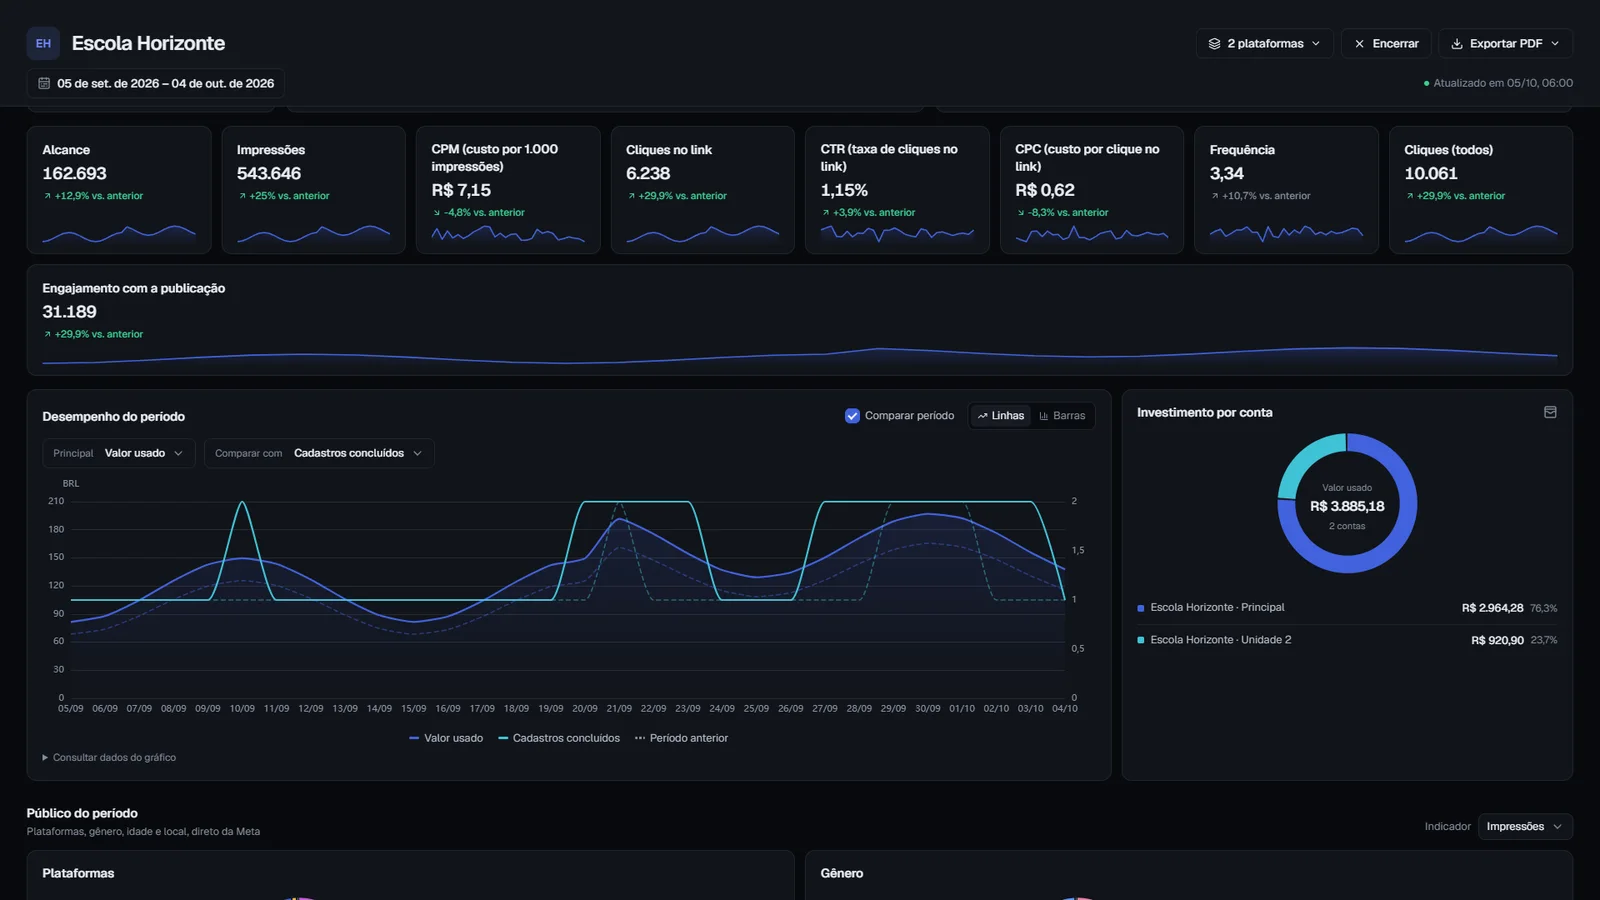
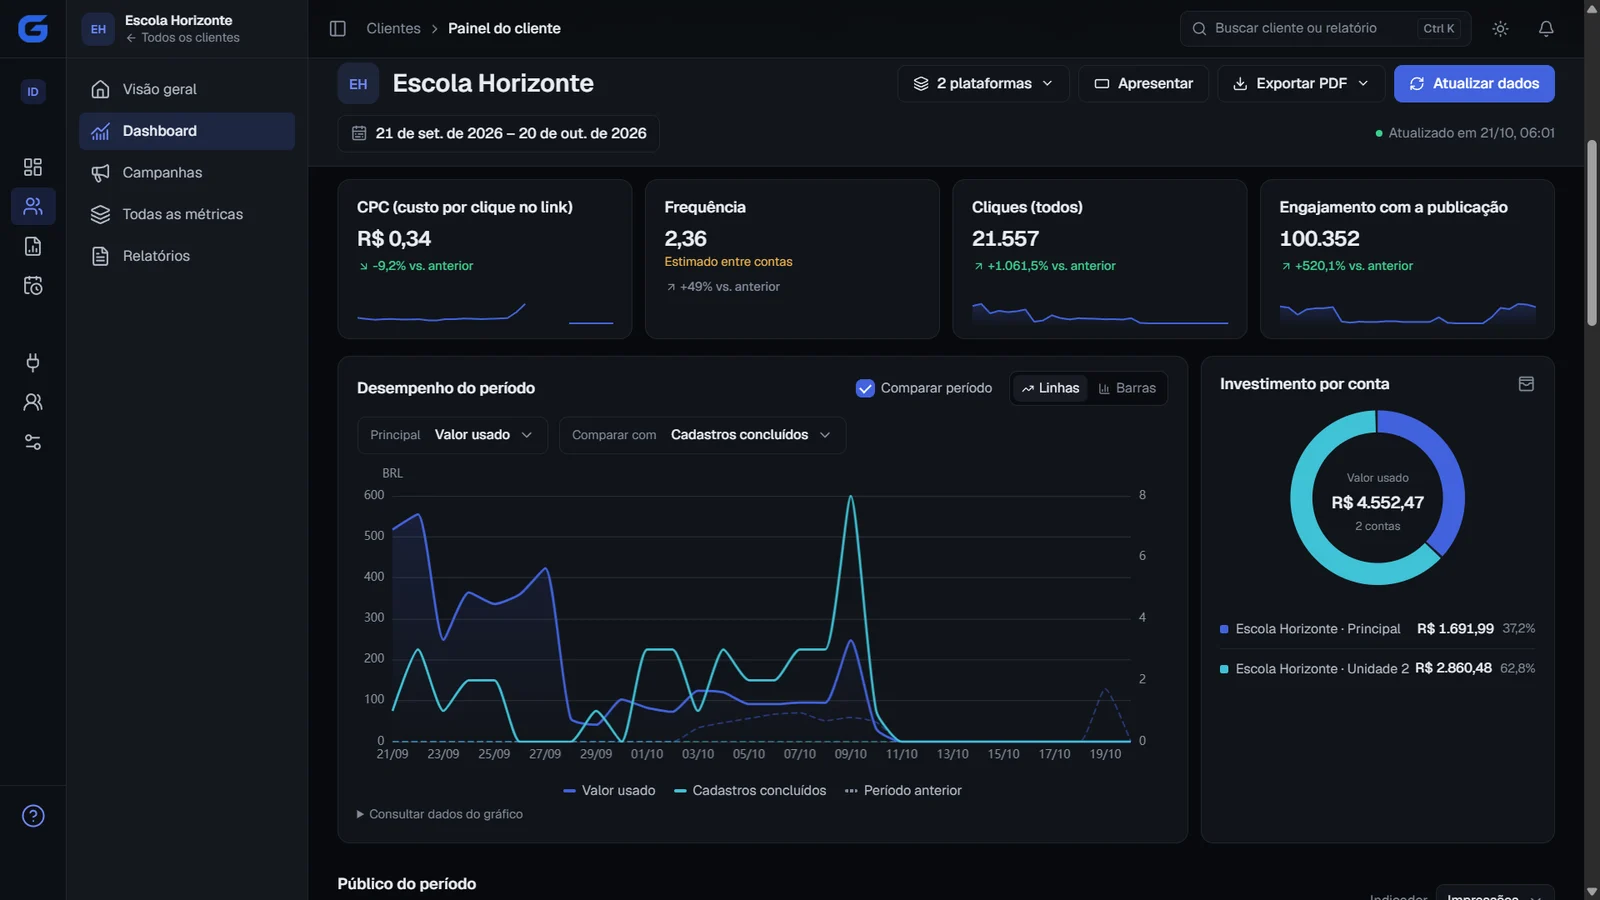
feat(marketing): hero desktop uses the full dashboard screen, client name replaced

diff --git a/src/modules/marketing/sales-media.tsx b/src/modules/marketing/sales-media.tsx
@@ -17,7 +17,7 @@ export function DeviceShowcase() {
   return <div className={styles.deviceStage} aria-label="Groow Ads em computador, tablet e celular">
     <div className={styles.deviceHalo} aria-hidden="true" />
     <div className={styles.computer}>
-      <div className={styles.computerScreen}><Image src="/product/hero-desktop.webp" alt="Interface real da Groow Ads no computador, em modo apresentação, com indicadores e gráfico do período de um cliente fictício" width={1600} height={900} sizes="(max-width: 760px) 94vw, 78vw" preload /></div>
+      <div className={styles.computerScreen}><Image src="/product/hero-desktop.webp" alt="Interface real da Groow Ads no computador, com a barra lateral, os indicadores e o gráfico do período de um cliente fictício" width={1600} height={900} sizes="(max-width: 760px) 94vw, 78vw" preload /></div>
       <div className={styles.computerChin} aria-hidden="true"><span /></div><div className={styles.computerStand} aria-hidden="true" />
     </div>
     <div className={styles.tablet}><Image src="/product/hero-tablet.webp" alt="Painel do cliente da Groow Ads no tablet, com público do período e campanhas, dados fictícios" width={1024} height={1366} sizes="(max-width: 760px) 27vw, 25vw" /></div>
